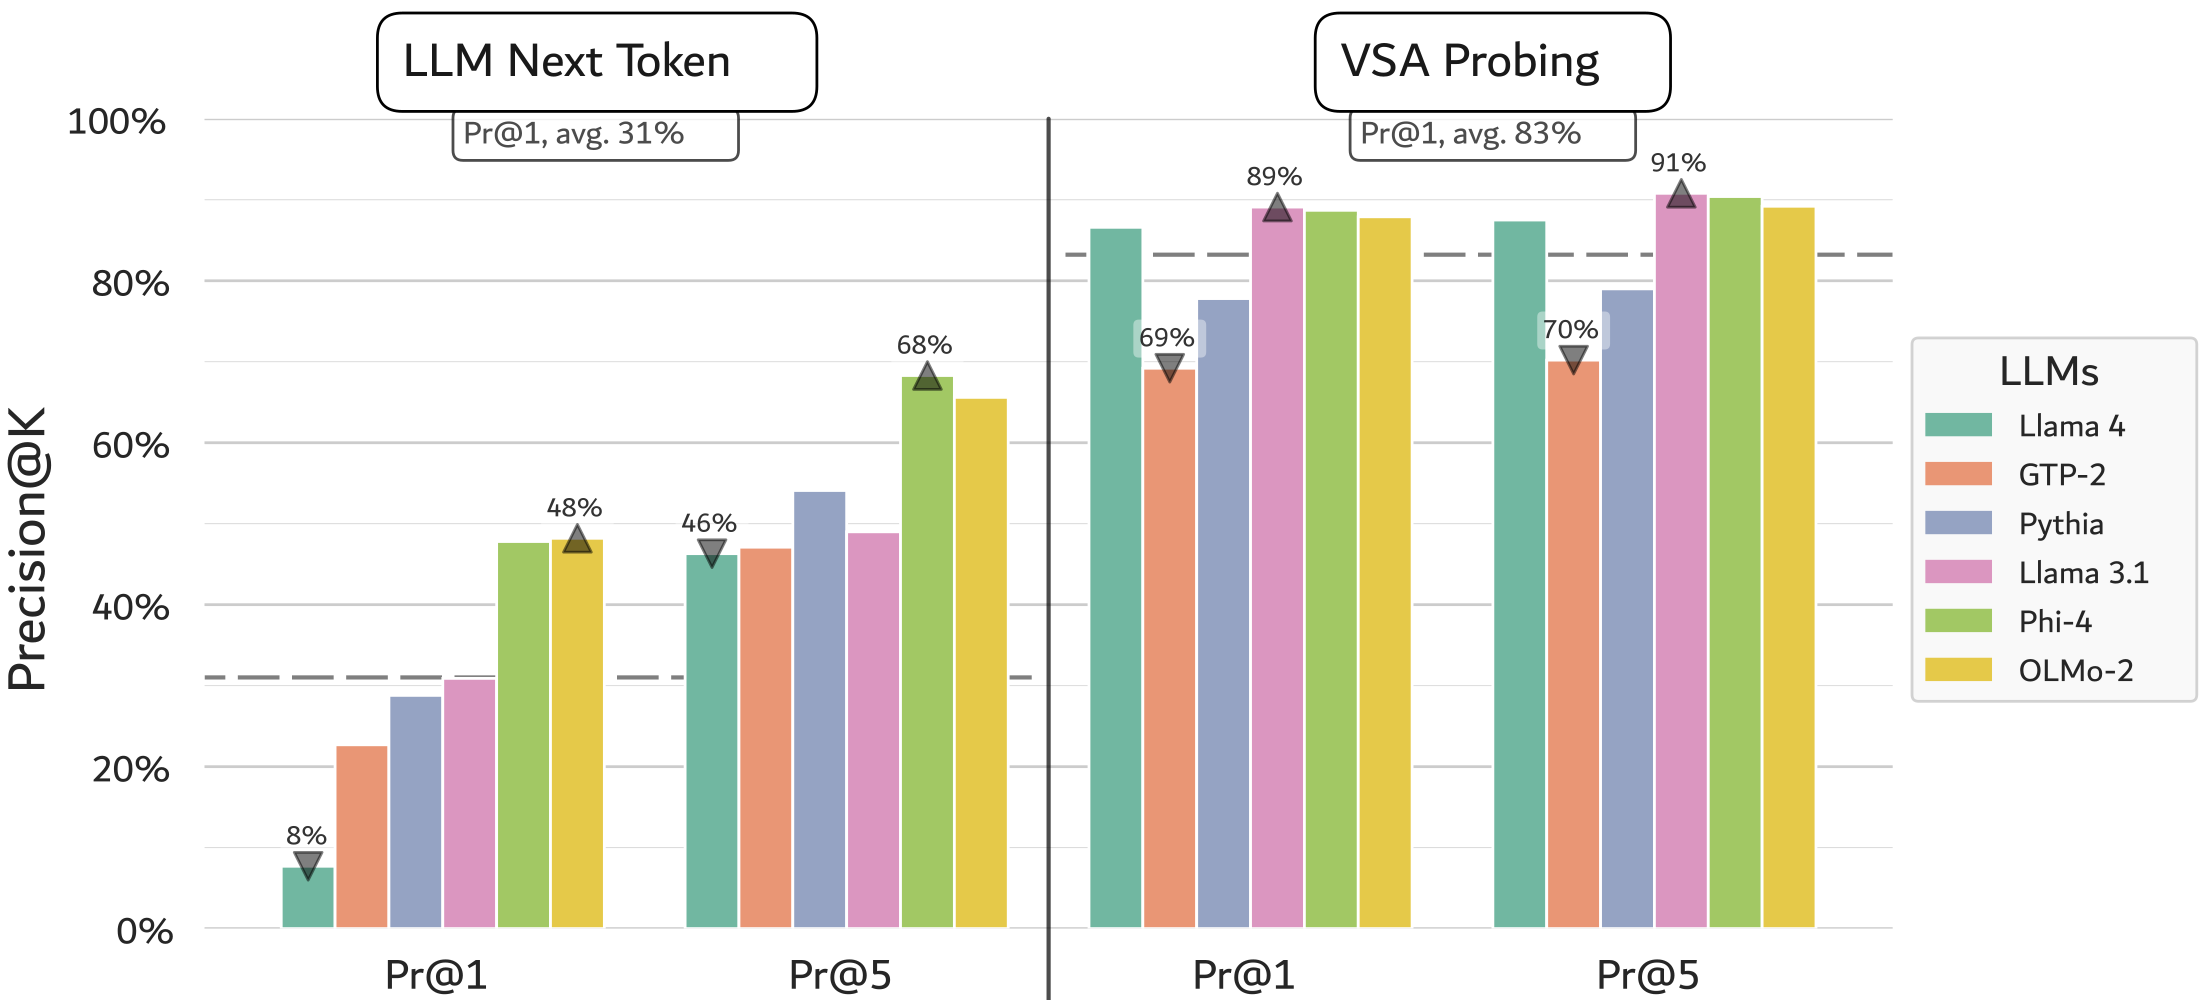
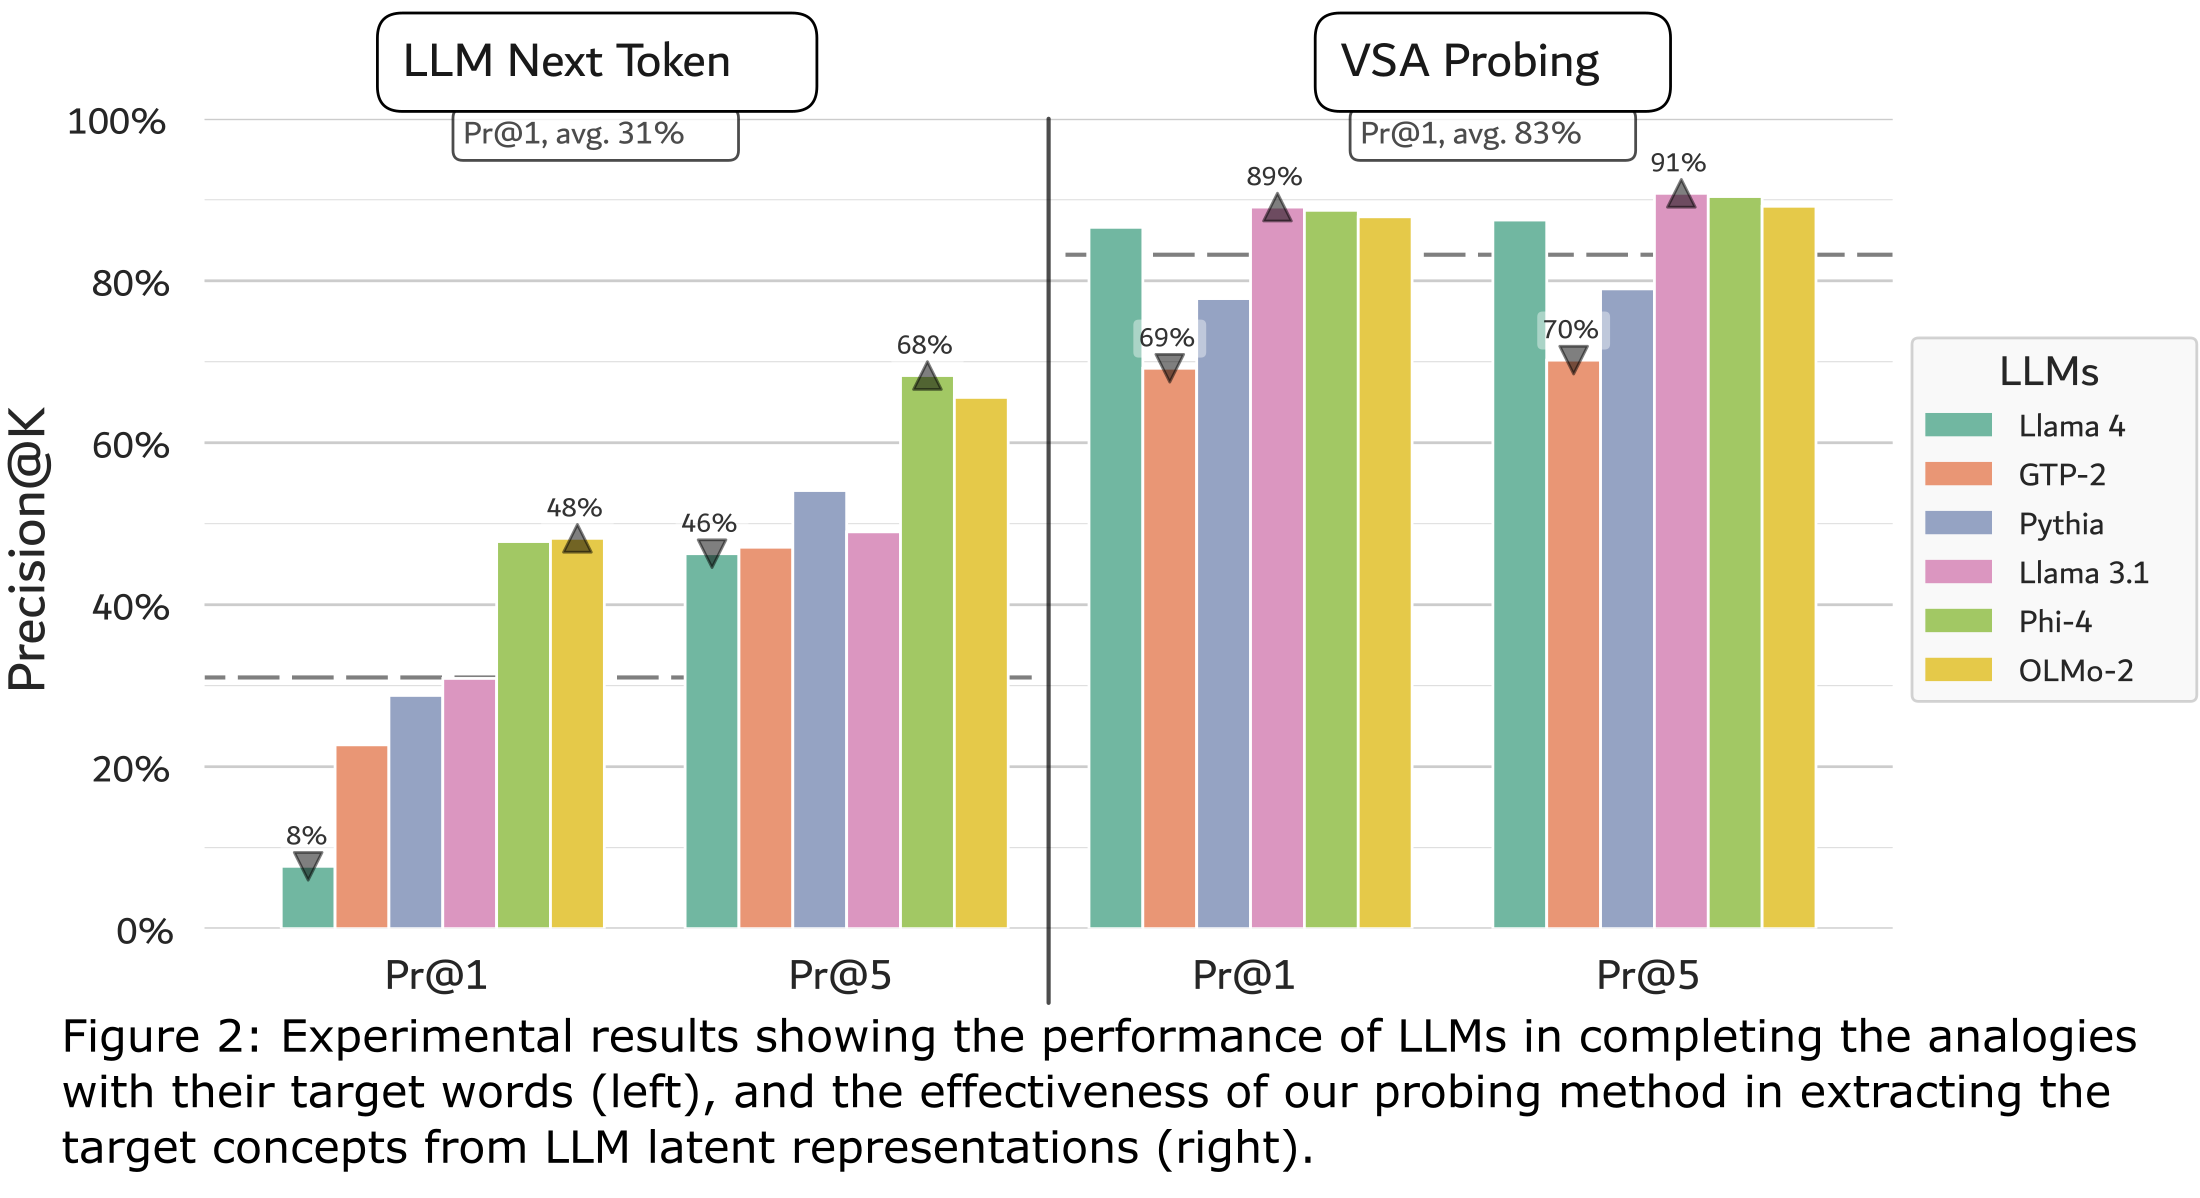
Add extracted concepts image to README.md and update experimental figures

diff --git a/README.md b/README.md
@@ -123,6 +123,8 @@ NOTE: The folder [``../probing/utils/logitLens``](src/hyperprobe/probing/utils/l
 ### Probing performance
 ![experimental_figures](images/experimental_figures.png)
 ![experimental_table](images/experimental_table.png)
+![extracted_concepts](images/extracted_concepts.png)
+
 
 ## Computational resources
 We recommend to have a GPU to run this pipeline (see [CUDA](https://docs.nvidia.com/cuda/cuda-quick-start-guide/index.html)).
